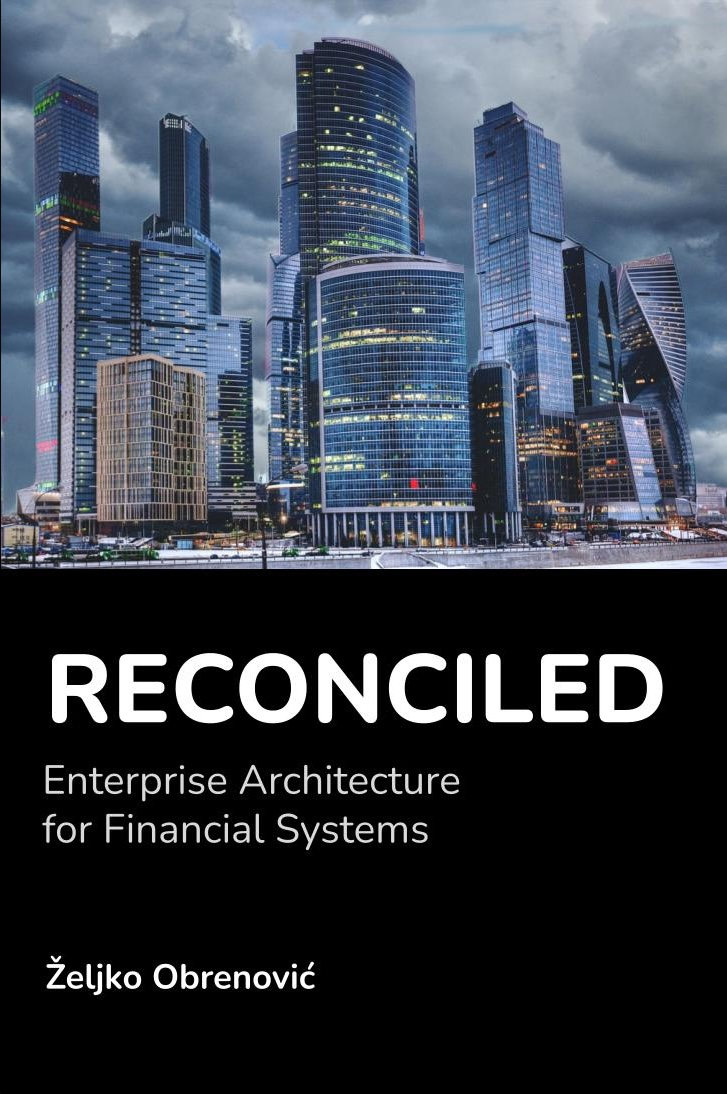
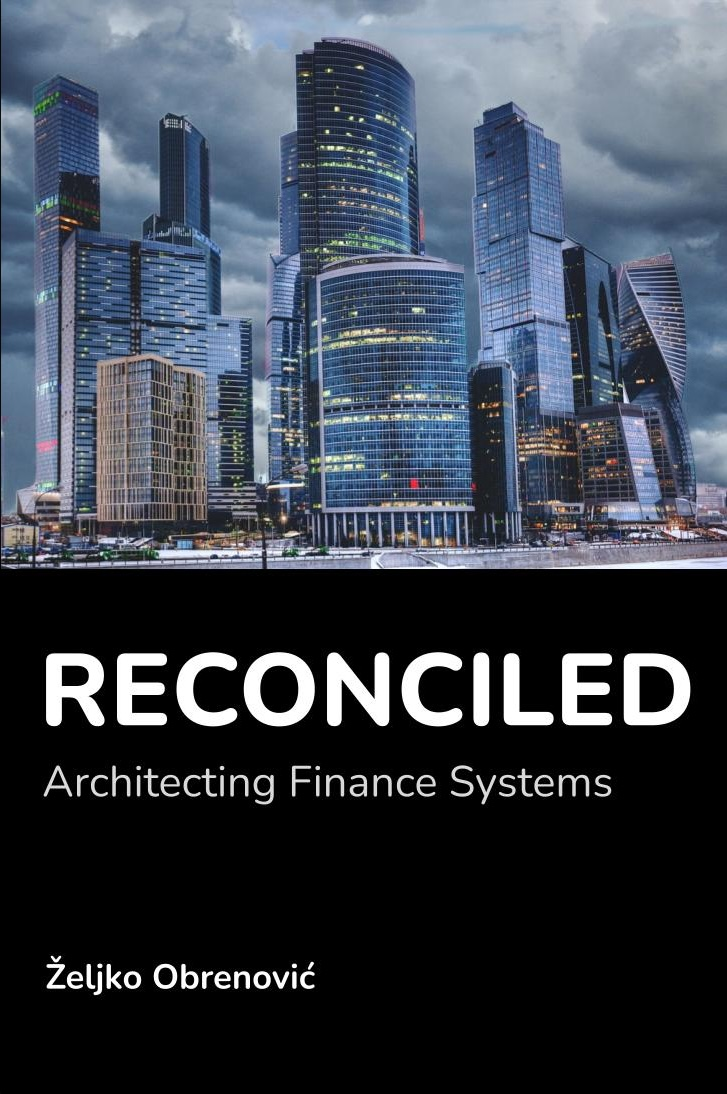
published books

Changed region(s): [[0.0605, 0.5905, 0.9684, 0.777]]

diff --git a/scripts/leanpub_build.py b/scripts/leanpub_build.py
@@ -85,7 +85,7 @@ def main():
     parser.add_argument("--email-readers", action="store_true", help="with --publish: notify readers")
     parser.add_argument("--release-notes", default="", help="with --publish: release notes text")
     parser.add_argument("--poll", type=int, default=10, help="seconds between status checks")
-    parser.add_argument("--timeout", type=int, default=1800, help="max seconds to wait for the build")
+    parser.add_argument("--timeout", type=int, default=3600, help="max seconds to wait for the build")
     parser.add_argument("--no-build", action="store_true", help="skip the build, only download the latest files")
     args = parser.parse_args()
 
